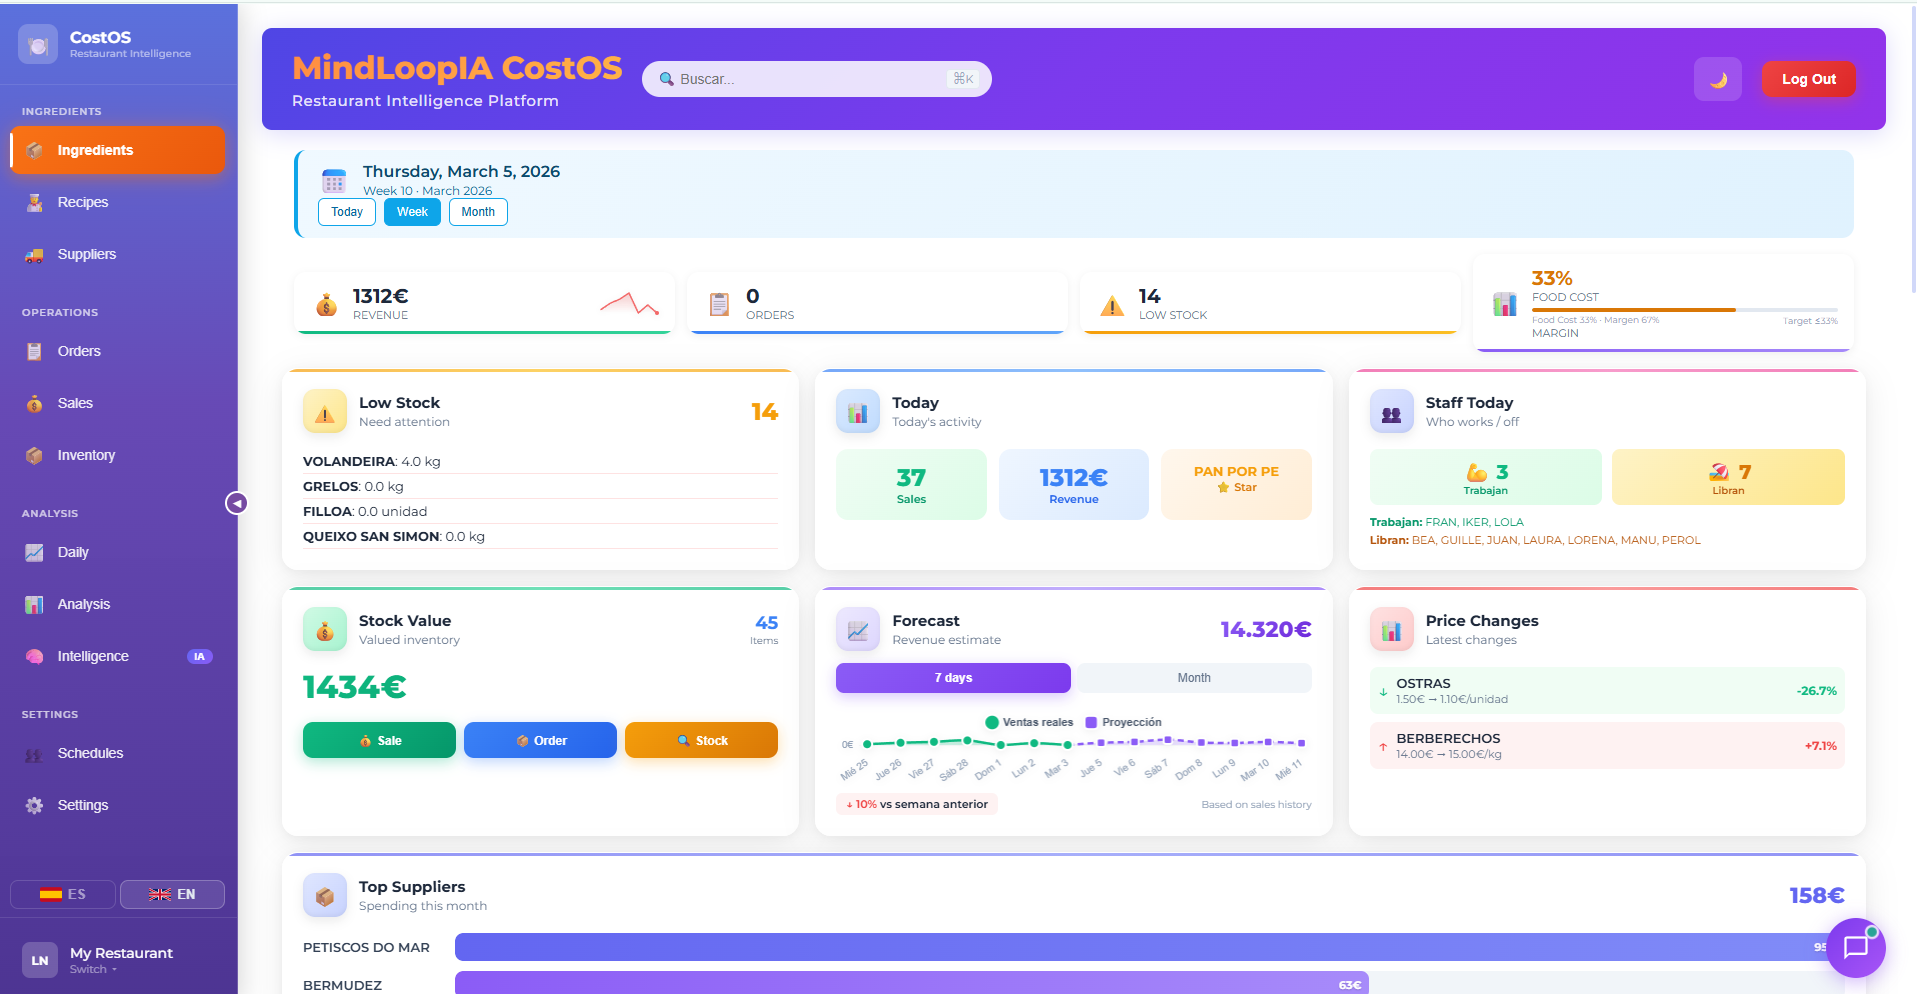
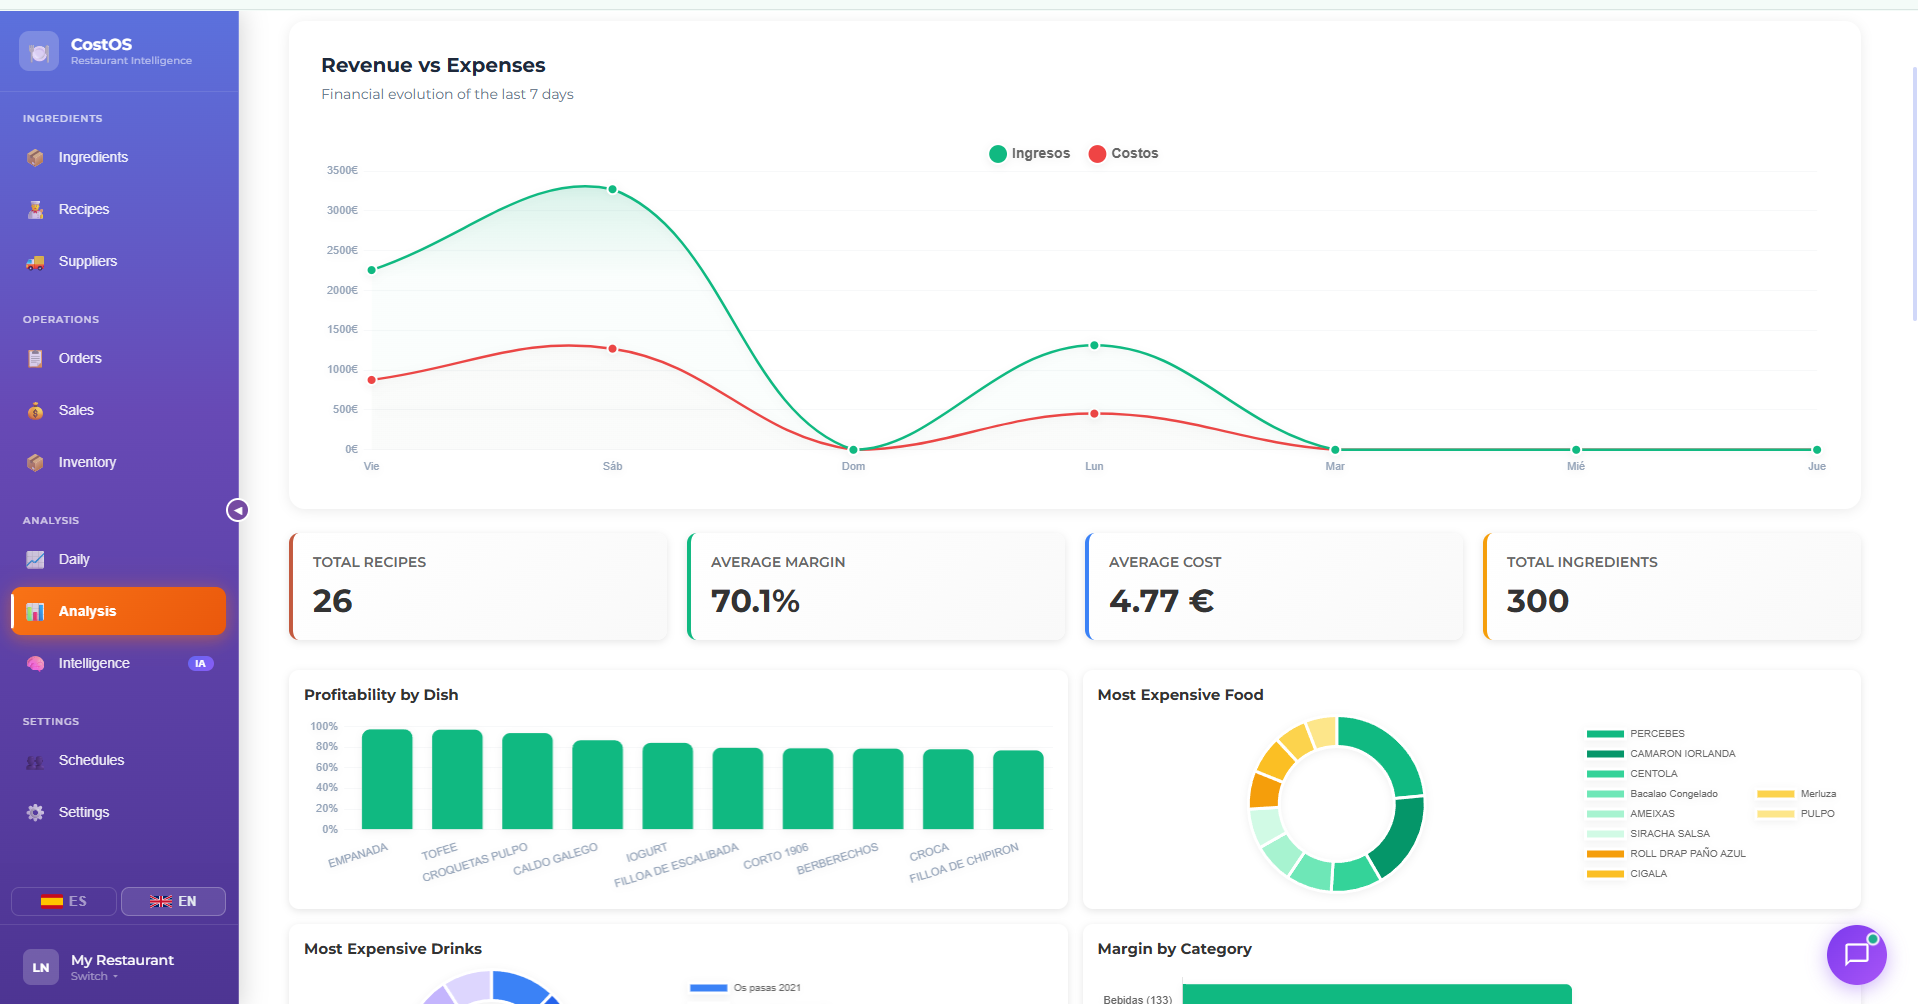
Update dashboard, QR, contacts, fix mobile scroll
- Replace dashboard screenshot with Analysis page (charts + KPIs)
- QR now points to app.mindloop.cloud (CostOS demo)
- Contact: mindloopia@gmail.com, +34 602 629 013
- Fix mobile horizontal scroll: overflow-x hidden on html+body,
  responsive grids collapse properly, img max-width 100%

diff --git a/index.html b/index.html
@@ -511,9 +511,14 @@
     /* ══════════════════════════════════════
        RESPONSIVE
        ══════════════════════════════════════ */
+    html { overflow-x: hidden; }
+    body { max-width: 100vw; overflow-x: hidden; }
+    img, svg, video, canvas { max-width: 100%; height: auto; }
+    .section { overflow: hidden; }
     @media (max-width: 1024px) {
       .tech__grid { grid-template-columns: repeat(2, 1fr); }
       .product__content { grid-template-columns: 1fr; gap: var(--space-2xl); }
+      .bottom-stats { grid-template-columns: repeat(2, 1fr); }
     }
     @media (max-width: 900px) {
       .nav__links {
@@ -532,20 +537,21 @@
       .nav__toggle--active .nav__toggle-bar:nth-child(3) { transform: rotate(-45deg) translate(5px, -5px); }
       .partners__grid { grid-template-columns: 1fr; max-width: 420px; margin: 0 auto; }
       .contact__grid { grid-template-columns: 1fr; }
-      .bottom-stats { grid-template-columns: repeat(2, 1fr); }
+      .screenshots-grid { grid-template-columns: 1fr; max-width: 520px; margin-left: auto; margin-right: auto; }
     }
     @media (max-width: 640px) {
       .hero { min-height: auto; padding-top: 6rem; padding-bottom: var(--space-3xl); }
       .hero__title { font-size: var(--text-2xl); }
       .hero__actions { flex-direction: column; }
       .hero__actions .btn { width: 100%; justify-content: center; }
-      .hero__stats { grid-template-columns: repeat(3, 1fr); gap: var(--space-md); }
+      .hero__stats { grid-template-columns: 1fr; gap: var(--space-md); }
       .tech__grid { grid-template-columns: 1fr; }
       .bottom-stats { grid-template-columns: 1fr; text-align: center; }
+      .img-card { min-height: 260px; }
+      .product__mockup { box-shadow: 0 0 30px rgba(255,140,0,0.05), 0 10px 30px rgba(0,0,0,0.3), 0 0 0 1px rgba(255,255,255,0.05); }
     }
     @media (max-width: 380px) {
       :root { --container-padding: 1rem; }
-      .hero__stats { grid-template-columns: 1fr; }
     }
   </style>
 </head>
@@ -990,14 +996,14 @@
               <svg viewBox="0 0 24 24" fill="none" stroke="currentColor" stroke-width="1.5"><path d="M4 4h16c1.1 0 2 .9 2 2v12c0 1.1-.9 2-2 2H4c-1.1 0-2-.9-2-2V6c0-1.1.9-2 2-2z"/><polyline points="22,6 12,13 2,6"/></svg>
               <div>
                 <div class="contact__detail-label">Email</div>
-                <a href="mailto:ikerameas@gmail.com" class="contact__detail-value">ikerameas@gmail.com</a>
+                <a href="mailto:mindloopia@gmail.com" class="contact__detail-value">mindloopia@gmail.com</a>
               </div>
             </div>
             <div class="contact__detail">
               <svg viewBox="0 0 24 24" fill="none" stroke="currentColor" stroke-width="1.5"><path d="M22 16.92v3a2 2 0 01-2.18 2 19.79 19.79 0 01-8.63-3.07 19.5 19.5 0 01-6-6A19.79 19.79 0 012.12 4.18 2 2 0 014.11 2h3a2 2 0 012 1.72c.127.96.361 1.903.7 2.81a2 2 0 01-.45 2.11L8.09 9.91a16 16 0 006 6l1.27-1.27a2 2 0 012.11-.45c.907.339 1.85.573 2.81.7A2 2 0 0122 16.92z"/></svg>
               <div>
                 <div class="contact__detail-label">WhatsApp</div>
-                <a href="https://wa.me/34622123456" class="contact__detail-value" target="_blank" rel="noopener">+34 622 123 456</a>
+                <a href="https://wa.me/34602629013" class="contact__detail-value" target="_blank" rel="noopener">+34 602 629 013</a>
               </div>
             </div>
             <div class="contact__detail">
@@ -1011,7 +1017,7 @@
 
           <div id="qr-container"></div>
           <p style="font-size: var(--text-xs); color: var(--color-text-muted); margin-top: var(--space-sm);">
-            Scan to visit mindloopia.com
+            Scan to try CostOS demo
           </p>
         </div>
 
@@ -1210,7 +1216,7 @@
     function renderQR() {
       if (typeof qrcode === 'undefined') return '<p style="color:var(--color-text-muted);">QR failed to load</p>';
       var qr = qrcode(0, 'M');
-      qr.addData('https://klaker79.github.io/mindloopia-website/');
+      qr.addData('https://app.mindloop.cloud');
       qr.make();
       var count = qr.getModuleCount();
       var cell = 7, pad = 20;
@@ -1240,7 +1246,7 @@
         const body = encodeURIComponent(
           `Name: ${fd.get('name')}\nEmail: ${fd.get('email')}\nInterest: ${fd.get('interest')}\n\nMessage:\n${fd.get('message')}`
         );
-        window.location.href = `mailto:ikerameas@gmail.com?subject=${subject}&body=${body}`;
+        window.location.href = `mailto:mindloopia@gmail.com?subject=${subject}&body=${body}`;
       });
     }
 
